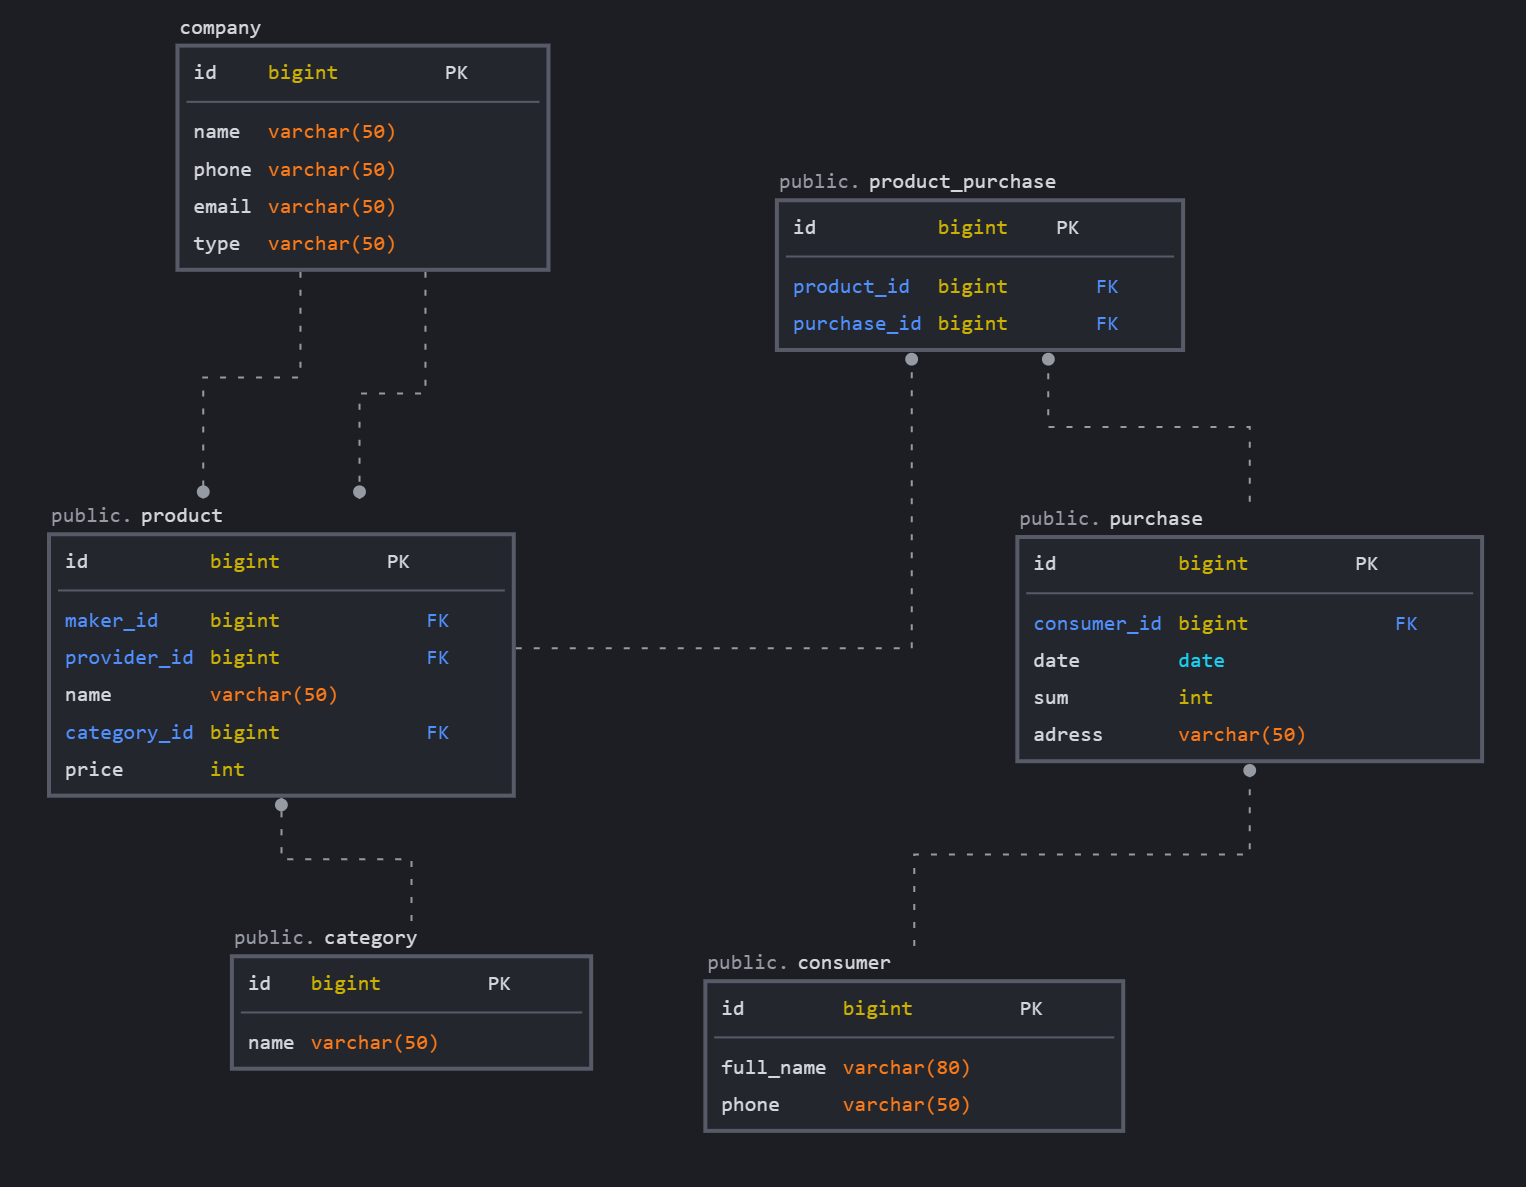
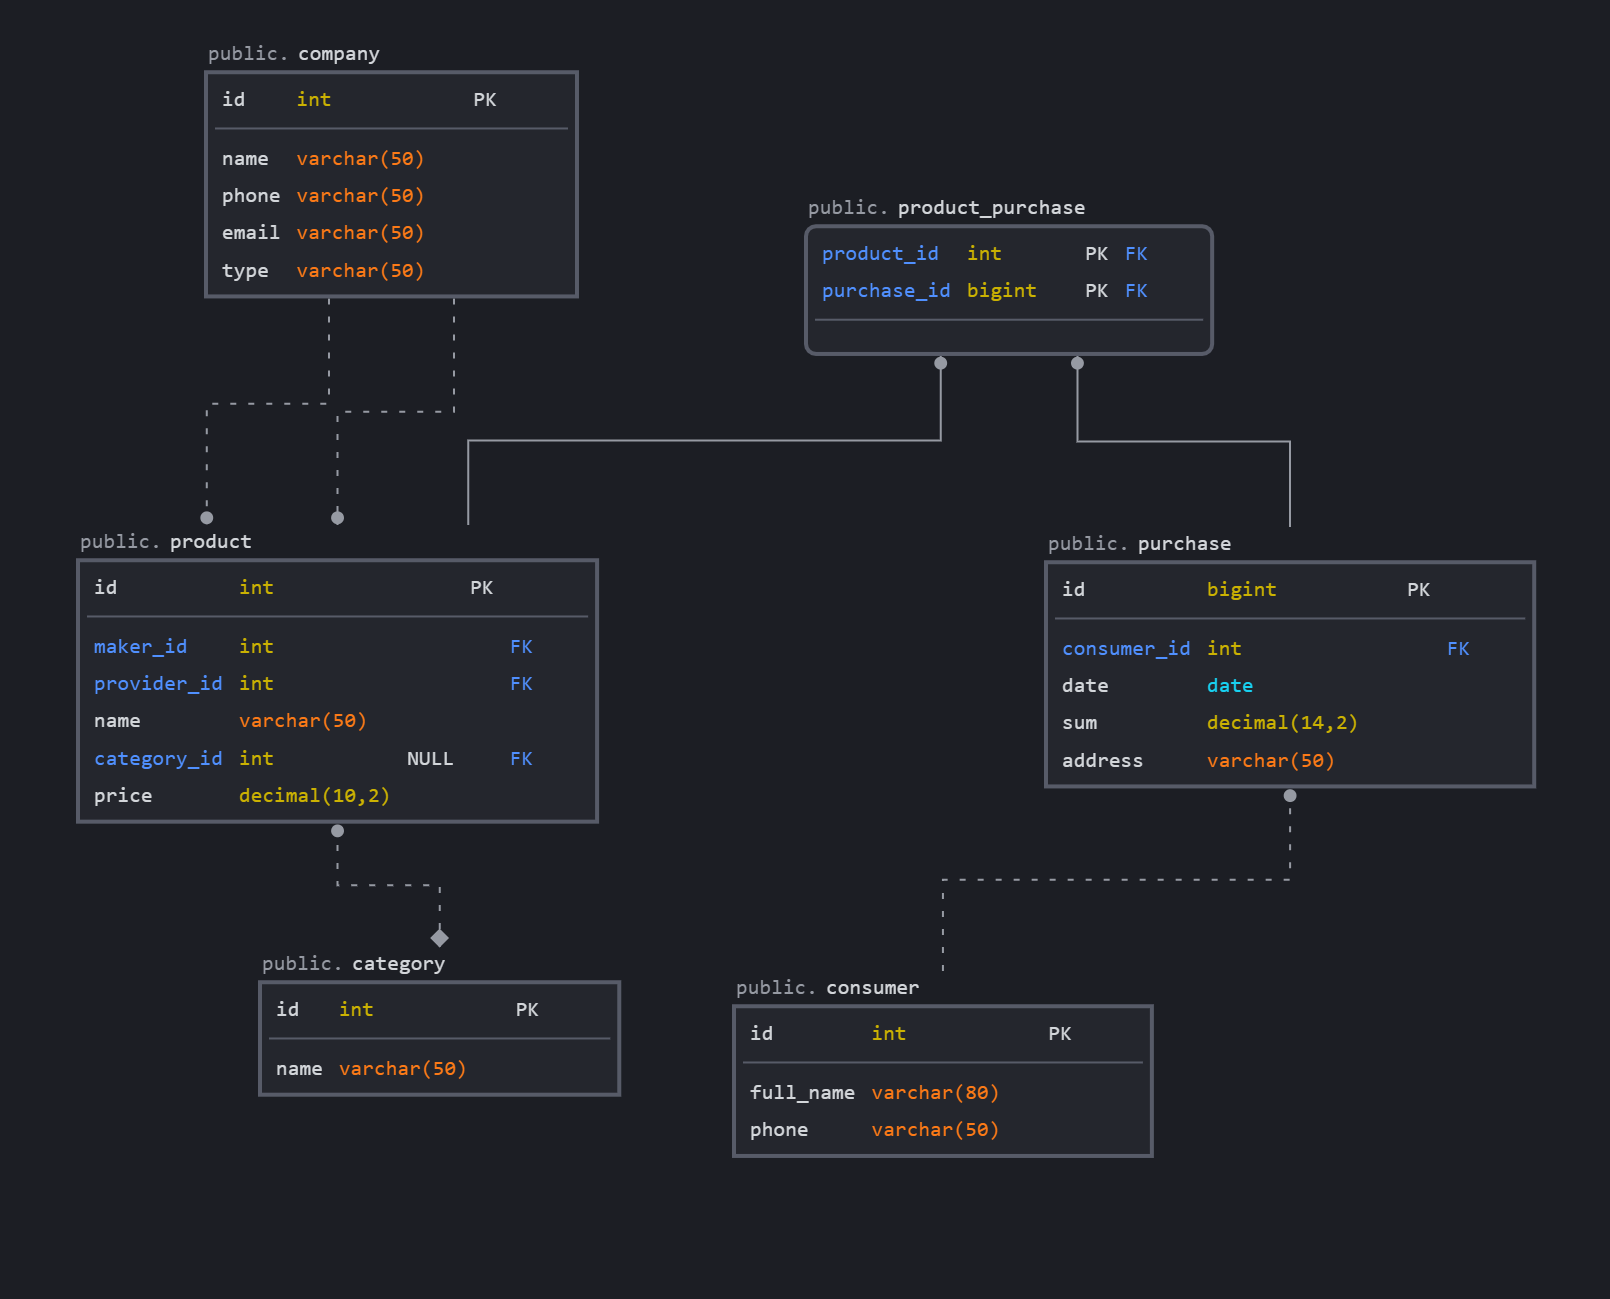
task 2

diff --git a/shema.md b/shema.md
@@ -23,7 +23,7 @@
 - id - уникальный идентификатор
 - date - дата покупки
 - sum - сумма покупки
-- adress - адресс заказа
+- address - адресс заказа
 - consumer_id - идентификатор покупателя
 
 ### consumer - `хранит информацию о поупателях`
